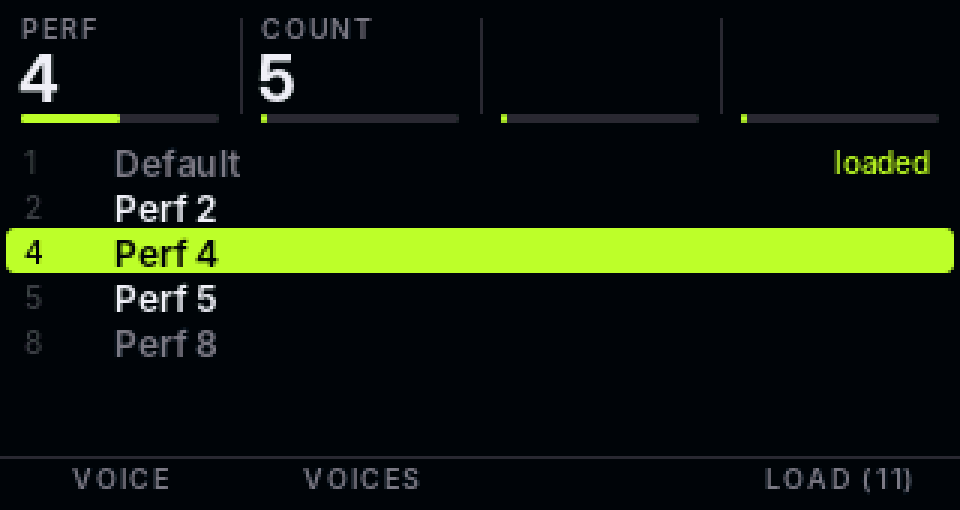
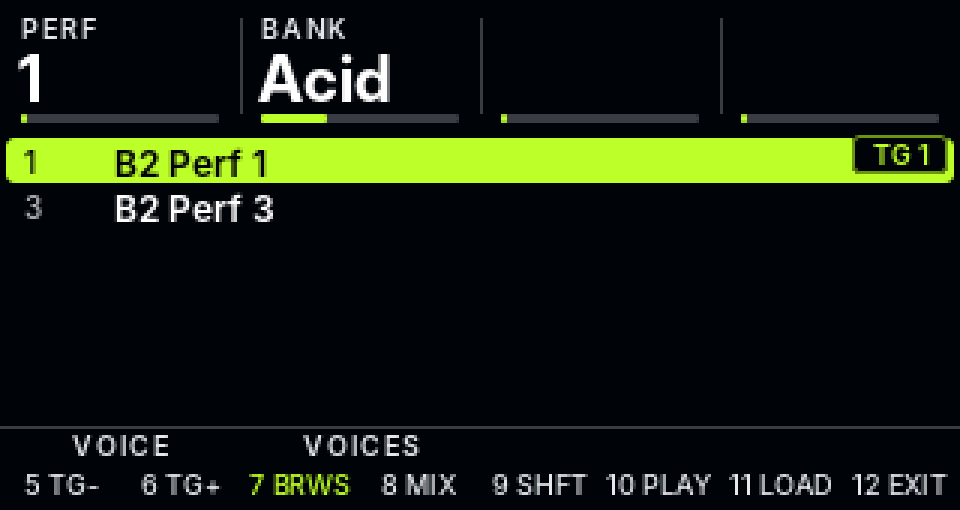
BROWSE performances: step through performance banks with encoder 2
Claude-Session: https://claude.ai/code/session_01Wubh9qfz4yxQm7mE8iBdPv

diff --git a/src/ui/soundpages.cpp b/src/ui/soundpages.cpp
@@ -405,7 +405,15 @@ public:
 		hub().ui().tg = c.tg;
 	}
 
-	void leave(Ctx& c, int) override { perf_ = false; cancel(c); }
+	void leave(Ctx& c, int) override { if (perf_) leavePerf(c); cancel(c); }
+	void tick(Ctx& c, int) override
+	{
+		if (perf_ && perfPending_ && c.syn.performanceBank() == perfBank_) {   // the synth has re-read the bank's folder
+			perfPending_ = false;
+			buildPerfList(c, false);
+			c.ui.redrawPicture();
+		}
+	}
 
 	void lane(Ctx& c, int sub, int i, LaneView& out) override
 	{
@@ -417,6 +425,12 @@ public:
 			copyStr(out.label, "Perf", sizeof out.label);
 			fmtInt(out.text, perfN_ ? perfIds_[perfSel_] + 1 : 0);
 			out.frac = frac(perfSel_, 0, perfN_ > 1 ? perfN_ - 1 : 1);
+		} else if (i == 1 && perfBanks_) {
+			copyStr(out.label, "Bank", sizeof out.label);
+			char nm[32];
+			c.syn.performanceBankName(perfBank_, nm);
+			copyStr(out.text, nm, sizeof out.text);
+			out.frac = frac(perfBank_, 0, c.syn.performanceBankCount() > 1 ? c.syn.performanceBankCount() - 1 : 1);
 		} else if (i == 1) {
 			copyStr(out.label, "Count", sizeof out.label);
 			fmtInt(out.text, perfN_);
@@ -432,7 +446,8 @@ public:
 
 	bool turn(Ctx& c, int sub, int i, int steps, bool fine) override
 	{
-		if (perf_) {                                    // only the first encoder moves through the list
+		if (perf_) {                                    // encoder 1 moves through the list, encoder 2 through the banks
+			if (i == 1 && perfBanks_) return stepBank(c, steps > 0 ? 1 : -1);
 			if (i != 0 || !perfN_) return false;
 			perfSel_ += steps;
 			if (perfSel_ < 0) perfSel_ = 0;
@@ -459,18 +474,19 @@ public:
 	{
 		if (!down) return false;
 		if (k == K_W) {                                 // voices <-> performances
-			if (perf_) { perf_ = false; enter(c, 0); }
+			if (perf_) { leavePerf(c); enter(c, 0); }
 			else if (!enterPerf(c)) return true;
 			c.ui.redrawAll();
 			return true;
 		}
 		if (perf_) {
 			if (k == K_C) {                             // LOAD the selected performance
-				if (!perfN_) return true;
+				if (!perfN_ || perfPending_) return true;
 				const int id = perfIds_[perfSel_];
 				if (!c.syn.loadPerformance(id)) { c.ui.toastError("PERFORMANCE NOT LOADED"); return true; }
 				for (int t = 0; t < kMaxTG; t++) hub().forget(t);   // every TG gets a new voice
 				c.ui.toast("PERFORMANCE LOADING");
+				perfHome_ = perfBank_;                  // the loaded performance now lives in the shown bank
 				perf_ = false;
 				c.ui.gotoSlot(SLOT_VOICE);
 				return true;
@@ -543,34 +559,72 @@ private:
 	uint32_t savedMask_ = 0;
 	uint8_t saved_[kMaxTG][kVoiceSize];
 
-	// performance browsing: the valid ids of the card's performance folder
+	// performance browsing: the valid ids of the shown performance bank (a folder under /performance)
 	static constexpr int kMaxPerf = 128;
 	bool perf_ = false;
 	int perfIds_[kMaxPerf];
 	int perfN_ = 0, perfSel_ = 0;
+	bool perfBanks_ = false;         // the synth has performance banks
+	int perfBank_ = 0;               // the bank shown
+	int perfHome_ = 0;               // the bank the loaded performance is in
+	int perfHomeId_ = 0;
+	bool perfPending_ = false;       // waiting for the synth to switch to perfBank_
 
 	bool enterPerf(Ctx& c)
 	{
-		const int last = c.syn.performanceLast();
-		if (last < 0) { c.ui.toast("PERFORMANCES - NOT IN THIS BUILD"); return false; }
+		if (c.syn.performanceLast() < 0) { c.ui.toast("PERFORMANCES - NOT IN THIS BUILD"); return false; }
 		cancel(c);                                      // undo any voice preview first
+		perfBanks_ = c.syn.performanceBankCount() > 0 && c.syn.performanceBank() >= 0;
+		perfBank_ = perfHome_ = perfBanks_ ? c.syn.performanceBank() : 0;
+		perfHomeId_ = c.syn.performanceCurrent();
+		perfPending_ = false;
+		buildPerfList(c, true);
+		perf_ = true;
+		return true;
+	}
+
+	// Back to the bank the loaded performance is in. Browsing banks must not leave
+	// the synth pointing at another bank, or Shift+key 8 would overwrite a performance there.
+	void leavePerf(Ctx& c)
+	{
+		if (perfBanks_ && (perfBank_ != perfHome_ || perfPending_)) c.syn.selectPerformanceBank(perfHome_);
+		perf_ = false;
+		perfPending_ = false;
+	}
+
+	// ids of the shown bank; start on the loaded performance when this is its bank
+	void buildPerfList(Ctx& c, bool atLoaded)
+	{
+		const int last = c.syn.performanceLast();
 		perfN_ = 0;
 		perfSel_ = 0;
-		const int cur = c.syn.performanceCurrent();
 		for (int id = 0; id <= last && id < kMaxPerf; id++) {
 			if (!c.syn.performanceValid(id)) continue;
-			if (id == cur) perfSel_ = perfN_;
+			if (atLoaded && perfBank_ == perfHome_ && id == perfHomeId_) perfSel_ = perfN_;
 			perfIds_[perfN_++] = id;
 		}
-		perf_ = true;
+	}
+
+	bool stepBank(Ctx& c, int dir)
+	{
+		const int n = c.syn.performanceBankCount();
+		int b = perfBank_;
+		do { b += dir; } while (b >= 0 && b < n && !c.syn.performanceBankValid(b));
+		if (b < 0 || b >= n) return false;
+		perfBank_ = b;
+		perfN_ = 0;
+		perfSel_ = 0;
+		perfPending_ = true;
+		c.syn.selectPerformanceBank(b);
 		return true;
 	}
 
 	void drawPerfs(Ctx& c)
 	{
 		Gfx& g = c.g;
-		if (!perfN_) { g.text(8, kListTop + 4, "NO PERFORMANCES ON THE CARD", fBody, GREY); return; }
-		const int cur = c.syn.performanceCurrent();
+		if (perfPending_) { g.text(8, kListTop + 4, "READING BANK...", fBody, GREY); return; }
+		if (!perfN_) { g.text(8, kListTop + 4, perfBanks_ ? "NO PERFORMANCES IN THIS BANK" : "NO PERFORMANCES ON THE CARD", fBody, GREY); return; }
+		const int cur = perfBank_ == perfHome_ ? perfHomeId_ : -1;
 		int first = perfSel_ - kRows / 2;
 		if (first > perfN_ - kRows) first = perfN_ - kRows;
 		if (first < 0) first = 0;

diff --git a/tools/sim/soundsynth.h b/tools/sim/soundsynth.h
@@ -85,13 +85,32 @@ struct SoundSynth : FakeSynth {
 		userSaves++; lastUserSlot = slot;
 		return slot;
 	}
-	// performances 1, 2, 4, 5 and 8 exist (ids 0, 1, 3, 4, 7)
-	int perfCurrent = 0, perfLoads = 0, lastPerfLoaded = -1;
-	int performanceLast() override { return 7; }
-	bool performanceValid(int id) override { return id == 0 || id == 1 || id == 3 || id == 4 || id == 7; }
-	void performanceName(int id, char out[32]) override { snprintf(out, 32, id == 0 ? "Default" : "Perf %d", id + 1); }
+	// Three performance banks (ids 0, 1 and 3; bank 2 is missing). Bank 0 holds
+	// performances 1, 2, 4, 5 and 8 (ids 0, 1, 3, 4, 7), bank 1 holds ids 0 and 2, bank 3 just id 5.
+	int perfCurrent = 0, perfLoads = 0, lastPerfLoaded = -1, perfBank = 0, perfBankHome = 0, perfBankSwitches = 0;
+	int perfBankDelay = 0;           // >0: the switch only completes after this many performanceBank() calls
+	int pendingBank = -1;
+	static bool inBank(int bank, int id)
+	{
+		if (bank == 0) return id == 0 || id == 1 || id == 3 || id == 4 || id == 7;
+		if (bank == 1) return id == 0 || id == 2;
+		if (bank == 3) return id == 5;
+		return false;
+	}
+	int performanceLast() override { return perfBank == 0 ? 7 : (perfBank == 1 ? 2 : 5); }
+	bool performanceValid(int id) override { return inBank(perfBank, id); }
+	void performanceName(int id, char out[32]) override { snprintf(out, 32, "B%d Perf %d", perfBank + 1, id + 1); }
 	int performanceCurrent() override { return perfCurrent; }
-	bool loadPerformance(int id) override { perfLoads++; lastPerfLoaded = id; perfCurrent = id; return true; }
+	bool loadPerformance(int id) override { perfLoads++; lastPerfLoaded = id; perfCurrent = id; perfBankHome = perfBank; return true; }
+	int performanceBankCount() override { return 4; }
+	bool performanceBankValid(int b) override { return b == 0 || b == 1 || b == 3; }
+	void performanceBankName(int b, char out[32]) override { snprintf(out, 32, b == 0 ? "Seed" : (b == 1 ? "Acid" : "Keys")); }
+	int performanceBank() override
+	{
+		if (pendingBank >= 0 && --perfBankDelay <= 0) { perfBank = pendingBank; pendingBank = -1; }
+		return perfBank;
+	}
+	bool selectPerformanceBank(int b) override { perfBankSwitches++; pendingBank = b; if (perfBankDelay <= 0) { perfBank = b; pendingBank = -1; } return true; }
 	int getFx(FxParam p) override { return fx[p]; }
 	int bankCount() override { return 99; }
 	bool bankValid(int b) override { return (b >= 0 && b < 4 && b != 2) || b == 98; }

diff --git a/tests/ui/sound_test.cpp b/tests/ui/sound_test.cpp
@@ -377,6 +377,43 @@ int main()
 		r.press(K_C);
 		CHECK(r.syn.lastPerfLoaded == 1);
 	}
+	{	// BROWSE performance banks: encoder 2 steps through them, nothing loads until key 11
+		Rig r;
+		r.press(K_D); r.press(K_W);
+		CHECK(r.syn.perfBank == 0);
+		r.turn(1, 1);                                // bank 1 (Acid): ids 0 and 2
+		CHECK(r.syn.perfBank == 1 && r.syn.perfBankSwitches == 1 && r.syn.perfLoads == 0);
+		r.turn(1, 1);                                // bank 2 does not exist: bank 3
+		CHECK(r.syn.perfBank == 3 && r.syn.perfBankSwitches == 2);
+		r.turn(1, 1);                                // no further bank
+		CHECK(r.syn.perfBank == 3 && r.syn.perfBankSwitches == 2);
+		r.press(K_C);                                // loads the only performance of that bank
+		CHECK(r.syn.perfLoads == 1 && r.syn.lastPerfLoaded == 5 && r.syn.perfBankHome == 3);
+		CHECK(r.ui.slot() == SLOT_VOICE && r.syn.perfBank == 3);
+	}
+	{	// leaving without loading puts the synth back on the bank of the loaded performance
+		Rig r;
+		r.press(K_D); r.press(K_W);
+		r.turn(1, 1);
+		CHECK(r.syn.perfBank == 1);
+		r.press(K_W);                                // key 2: back to voices
+		CHECK(r.syn.perfBank == 0 && r.syn.perfLoads == 0);
+		r.press(K_W); r.turn(1, 1);
+		CHECK(r.syn.perfBank == 1);
+		r.press(K_V);                                // key 12: exit
+		CHECK(r.syn.perfBank == 0 && r.syn.perfLoads == 0);
+	}
+	{	// the synth takes a moment to switch banks: key 11 waits for the new list
+		Rig r;
+		r.syn.perfBankDelay = 3;
+		r.press(K_D); r.press(K_W);
+		r.turn(1, 1);
+		r.press(K_C);                                // too early: ignored
+		CHECK(r.syn.perfLoads == 0 && r.ui.slot() == SLOT_BROWSE);
+		r.run(400);                                  // the page polls and builds the list
+		r.press(K_C);
+		CHECK(r.syn.perfLoads == 1 && r.syn.lastPerfLoaded == 0 && r.syn.perfBankHome == 1);
+	}
 	{	// Shift+r with the Shift map showing (held past 250 ms), from several starting pages
 		for (int start = 0; start < 4; start++) {
 			Rig r;

diff --git a/src/glue/zicsynth_dexed.cpp b/src/glue/zicsynth_dexed.cpp
@@ -175,6 +175,17 @@ public:
 	}
 	int performanceCurrent () override { return (int) m_pMini->GetActualPerformanceID (); }
 	bool loadPerformance (int id) override { return m_pMini->SetNewPerformance ((unsigned) id); }
+	int performanceBankCount () override { return (int) m_pMini->GetLastPerformanceBank () + 1; }
+	bool performanceBankValid (int bank) override { return bank >= 0 && m_pMini->GetPerformanceConfig ()->IsValidPerformanceBank ((unsigned) bank); }
+	void performanceBankName (int bank, char out[32]) override
+	{
+		std::string s = m_pMini->GetPerformanceConfig ()->GetPerformanceBankName ((unsigned) bank);
+		unsigned n = 0;
+		for (; n < s.size () && n < 31; n++) out[n] = (s[n] >= 32 && s[n] < 127) ? s[n] : ' ';
+		out[n] = 0;
+	}
+	int performanceBank () override { return (int) m_pMini->GetPerformanceBank (); }
+	bool selectPerformanceBank (int bank) override { return m_pMini->SetNewPerformanceBank ((unsigned) bank); }
 
 	bool savePerformance () override { return m_pMini->SavePerformance (false); }
 	int saveVoice (const uint8_t v[kVoiceSize]) override { return SaveVoiceToUserBank (v); }

diff --git a/src/ui/zicsynth.h b/src/ui/zicsynth.h
@@ -108,6 +108,15 @@ public:
 	virtual void performanceName(int /*id*/, char out[32]) { out[0] = 0; }
 	virtual int performanceCurrent() { return -1; }
 	virtual bool loadPerformance(int /*id*/) { return false; }
+	// Performance banks are sub-folders of the performance folder ("001_Seed").
+	// The performance* calls above describe the bank currently shown (performanceBank).
+	// selectPerformanceBank() only queues the switch: performanceBank() changes once
+	// the synth has re-read that folder, a moment later. It does not load anything.
+	virtual int performanceBankCount() { return 0; }              // highest bank id + 1; 0 = no banks
+	virtual bool performanceBankValid(int /*bank*/) { return false; }
+	virtual void performanceBankName(int /*bank*/, char out[32]) { out[0] = 0; }
+	virtual int performanceBank() { return -1; }
+	virtual bool selectPerformanceBank(int /*bank*/) { return false; }
 
 	// Master output volume, 0..127 (the stock menu's Master Volume).
 	virtual int masterVolume() { return 100; }

diff --git a/tools/sim/sim_sound.cpp b/tools/sim/sim_sound.cpp
@@ -123,7 +123,8 @@ int main(int argc, char** argv)
 	// BROWSE key 2: performances
 	s.press(K_V);
 	s.press(K_D); s.press(K_W);
-	s.turn(0, 2);
+	s.turn(1, 1);
+	s.turn(0, 1);
 	s.run(2000);
 	dump(s.g, dir, "16_browse_perfs");
 

diff --git a/docs/firmware-ui.md b/docs/firmware-ui.md
@@ -69,7 +69,7 @@ With `ZicUI=1` the stock `ButtonPin*` and `EncoderEnabled` must be off (the ship
 | Key 2 | FM: Algo, Feedback, Bright, Snarl. Press again: Bite, Tail, Vel, Sync |
 | Key 3 | OPS: Op, Level, Ratio (Shift = fine), Detune. Press again: operator envelope, rates (Shift = levels) |
 | Key 4 | MOD: LFO (wave, speed, pitch, amp), pitch EG, FX (reverb size, damping, level, compressor) |
-| Key 7 | BROWSE: turning Voice previews on the target TG; key 11 loads, leaving the page undoes the preview. Key 2 switches the list to the performances on the card (/SD/performance): encoder 1 scrolls, key 11 loads the selected one (it replaces every TG's voice and settings), key 2 goes back to voices; the performance that is loaded is marked. Key 3 keeps the previewed voice and opens the naming screen: RENAME in the user bank (overwrites that slot with the new name), SAVE AS in any other bank (a renamed copy goes into the user bank) |
+| Key 7 | BROWSE: turning Voice previews on the target TG; key 11 loads, leaving the page undoes the preview. Key 2 switches the list to the performances on the card (/SD/performance): encoder 1 scrolls, encoder 2 steps through the performance banks (the sub-folders such as `001_Seed`), key 11 loads the selected one (it replaces every TG's voice and settings), key 2 goes back to voices; the performance that is loaded is marked. Stepping banks only changes the list: leaving without loading puts the synth back on the bank of the loaded performance, so Shift+key 8 never writes into a bank you were only looking at. Key 3 keeps the previewed voice and opens the naming screen: RENAME in the user bank (overwrites that slot with the new name), SAVE AS in any other bank (a renamed copy goes into the user bank) |
 | Shift+key 10 | KEYS: keys 1-8 play the current scale on the current TG |
 | Shift+keys 1/2/3 | INIT, MUTATE, OP MUTE (selected operator) |
 | Shift+key 4 | FX: jumps to the MOD page's effects sub-page |
